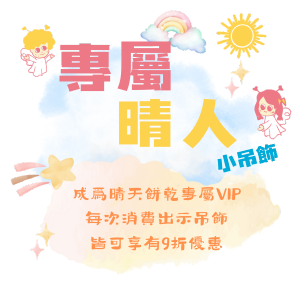
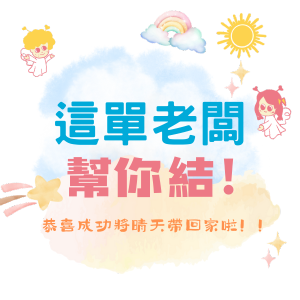
增加獎項

Changed region(s): [[0.0, 0.12, 0.93, 0.87], [0.87, 0.78, 0.96, 0.9], [0.84, 0.72, 0.87, 0.78]]

diff --git a/index.html b/index.html
@@ -168,12 +168,12 @@
 
   <script>
     const prizes = [
-      { name: '每一口都是 幸福的延續 ', img: 'img/6.png', weight: 25 },
-      { name: '結帳金額98折 ', img: 'img/5.png', weight: 25 },
-      { name: '結帳金額95折', img: 'img/4.png', weight: 20 },
-      { name: '消費滿千折100元 消費滿百折10元', img: 'img/3.png', weight: 15 },
-      { name: '結帳金額9折', img: 'img/2.png', weight: 9 },
-      { name: '專屬晴人小吊飾', img: 'img/1.png', weight: 5 },
+      { name: '每一口都是 幸福的延續 ', img: 'img/7.png', weight: 25 },
+      { name: '結帳金額98折 ', img: 'img/6.png', weight: 25 },
+      { name: '結帳金額95折', img: 'img/5.png', weight: 20 },
+      { name: '消費滿千折100元 消費滿百折10元', img: 'img/4.png', weight: 15 },
+      { name: '結帳金額9折', img: 'img/3.png', weight: 9 },
+      { name: '專屬晴人小吊飾', img: 'img/2.png', weight: 5 },
       { name: '這單老闆幫你結！', img: 'img/1.png', weight: 1 },
     ];
 
